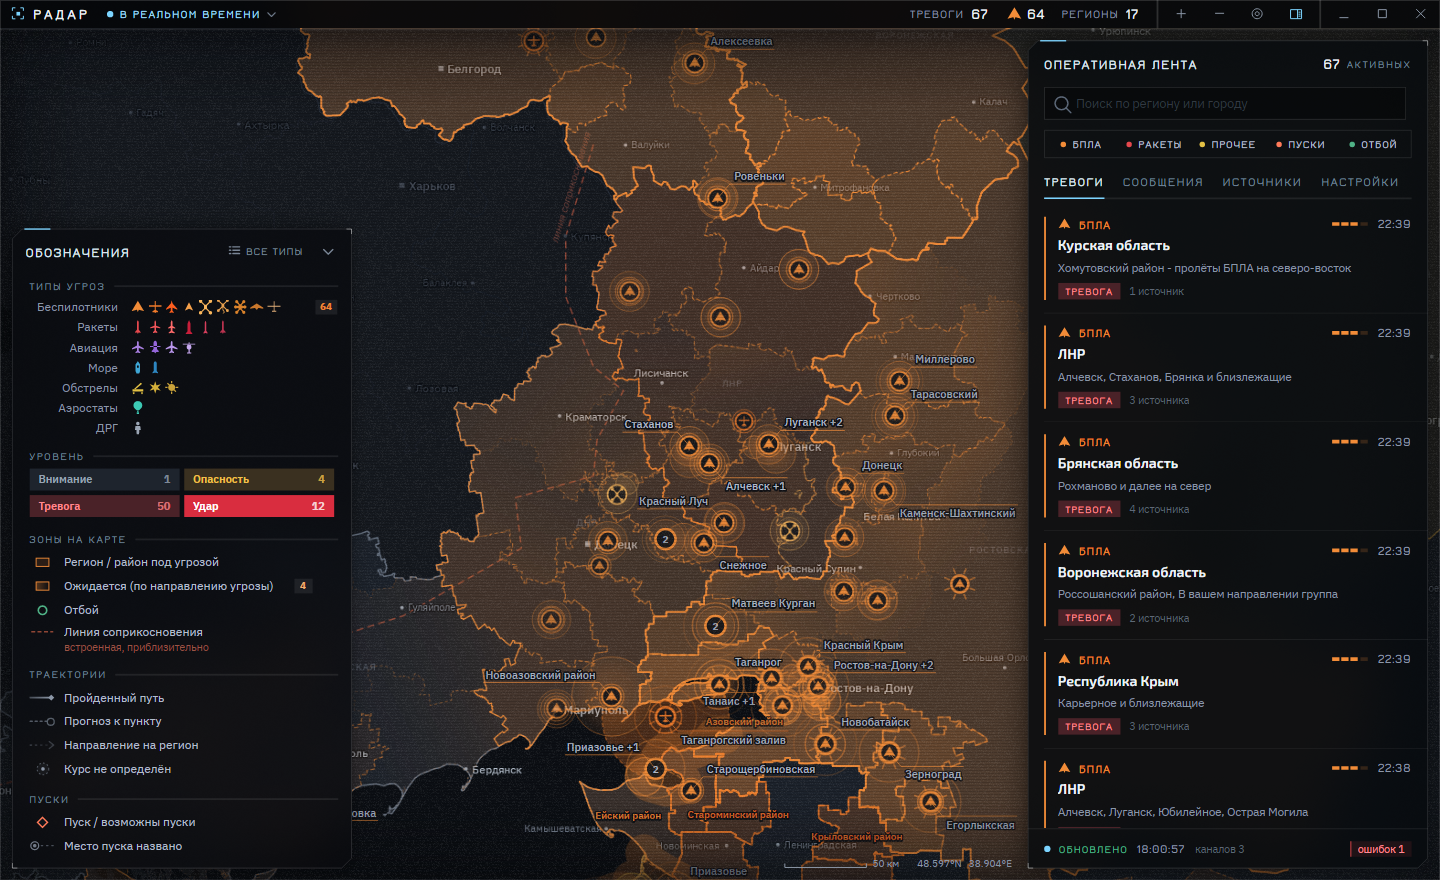
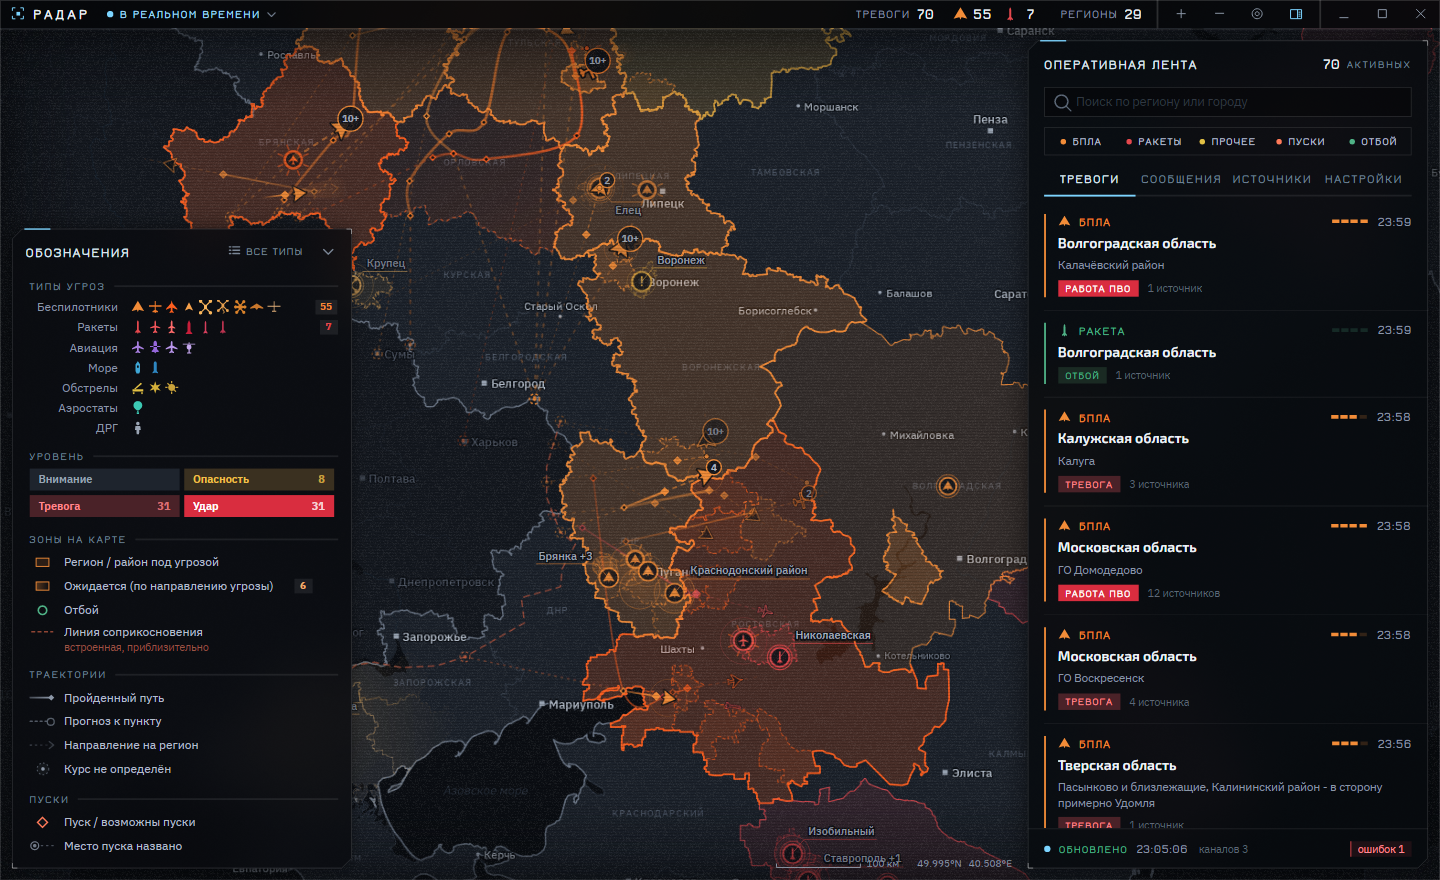
Новые скриншоты в README, ссылка на обратную связь
Снимки окна целиком (шапка, лента, карточка, статистика); --render-ui: RADAR_UI_HOVER — карточка по наведению, треки на карте при RADAR_UI_FEED. Обратная связь — t.me/escorplab.

diff --git a/Radar.Core/Views/MainView.axaml.cs b/Radar.Core/Views/MainView.axaml.cs
@@ -350,6 +350,9 @@ public partial class MainView : UserControl
                     .OrderBy(m => m.Time).ToList());
                 // лента и каналы заполнены — снимок «на связи», без плашки загрузки
                 vm.DebugSetOnline();
+                // лента в модели пересылает на карту события без треков архива — на снимке карта та же, что без ленты
+                w._vm!.MapEventsChanged -= w.OnMapEvents;
+                w.Map.SetEvents(ce, ct);
             }
             if (int.TryParse(Environment.GetEnvironmentVariable("RADAR_UI_TAB"), out var tab)) w.SideTabs.SelectedIndex = tab;
             if (Environment.GetEnvironmentVariable("RADAR_UI_REGIONS") is { Length: > 0 } rg)
@@ -416,6 +419,12 @@ public partial class MainView : UserControl
         // RADAR_UI_CENTER=lat,lon,zoom — вид карты
         if (Environment.GetEnvironmentVariable("RADAR_UI_CENTER") is { Length: > 0 } cz && cz.Split(',') is [var cla, var clo, var czz])
             w.Map.CenterOn(new GeoPoint(double.Parse(cla, System.Globalization.CultureInfo.InvariantCulture), double.Parse(clo, System.Globalization.CultureInfo.InvariantCulture)), double.Parse(czz, System.Globalization.CultureInfo.InvariantCulture));
+        // RADAR_UI_HOVER=<пункт> — наведение на отметку события: всплывающая карточка (снимок для README)
+        if (Environment.GetEnvironmentVariable("RADAR_UI_HOVER") is { Length: > 0 } hov)
+        {
+            using (var pre = new Avalonia.Media.Imaging.RenderTargetBitmap(new Avalonia.PixelSize(W, H))) pre.Render(host);
+            Console.WriteLine(w.Map.DebugHoverEvent(hov));
+        }
         // RADAR_UI_DRAG=<пункт>:<км>[:release] — перетаскивание края круга
         if (Environment.GetEnvironmentVariable("RADAR_UI_DRAG") is { Length: > 0 } dr && dr.Split(':') is [var dn, var dk, ..] dp)
         {

diff --git a/Radar.Core/Map/MapControl.cs b/Radar.Core/Map/MapControl.cs
@@ -2138,6 +2138,24 @@ public sealed class MapControl : Control
         _pickPlace = PlaceLabelAt(p);
         _pickHover = _pickPlace == null ? RegionAtScreen(p) : null;
     }
+    /// <summary>Отладка (--render-ui): наведение на отметку события с пунктом <paramref name="label"/> — карточка без анимации.</summary>
+    public string DebugHoverEvent(string label)
+    {
+        foreach (var e in Events)
+            foreach (var pt in e.Points)
+            {
+                if (!pt.Label.StartsWith(label, StringComparison.OrdinalIgnoreCase)) continue;
+                var at = WorldToScreen(Basemap.Project(pt.Pos));
+                if (HitEvent(at) is not { } h) continue;
+                _hover = at;
+                _hoverEvent = _tipEvent = h;
+                _tipPos = at;
+                _tipFade = 1;
+                _hl[h] = 1;
+                return $"карточка: {h.Title} у «{pt.Label}» {at.X:0},{at.Y:0}";
+            }
+        return $"карточка: отметка «{label}» не найдена";
+    }
     public double DebugBaseZoom => _baseZoom;
     public Task? DebugBaseJob => _baseJob;
     public Task? DebugAreasJob => _areasJob;

diff --git a/Radar.Core/Services/Distribution.cs b/Radar.Core/Services/Distribution.cs
@@ -11,5 +11,5 @@ public static class Distribution
     /// <summary>Архив сообщений — отдельный релиз с постоянным тегом «archive», обновляется ежедневно.</summary>
     public const string ArchiveBaseUrl = RepoUrl + "/releases/download/archive/";
     public const string DonateUrl = "https://yoomoney.ru/fundraise/1KNOTETVTB3.261005";
-    public const string FeedbackUrl = "https://t.me/people_soft?direct";
+    public const string FeedbackUrl = "https://t.me/escorplab?direct";
 }

diff --git a/README.md b/README.md
@@ -9,7 +9,7 @@
 
 ![Окно приложения: карта, легенда и оперативная лента](docs/screenshot-main.png)
 
-![Треки и тревоги над Донбассом и Ростовской областью](docs/screenshot-tracks.png)
+![Треки, скорости и прогнозы над Московским регионом](docs/screenshot-tracks.png)
 
 ## Установка
 
@@ -18,7 +18,7 @@
 Приложение само проверяет обновления при запуске (вкладка «Настройки» → «О программе») и загружает архив сообщений
 для истории и статистики — только новые и изменившиеся месяцы.
 
-Вопросы, предложения и замечания — [в Telegram](https://t.me/people_soft?direct).
+Вопросы, предложения и замечания — [в Telegram](https://t.me/escorplab?direct).
 
 ### Поддержать разработку
 
@@ -85,7 +85,7 @@
 дежурные фразы и подписи каналов, в отбоях — «отбой…», «режим внимания», время. «Фиксация/сбитие БПЛА» сводится к
 количеству («от 3 шт», «группа»). Источники — «@канал, @канал и ещё N».
 
-![Всплывающие карточки: короткая и с отбоем части, движением и историей](docs/screenshot-cards.png)
+![Всплывающая карточка тревоги: статус, пункты и история источников](docs/screenshot-cards.png)
 
 ## Треки
 
@@ -119,7 +119,8 @@
 Снимки для README: `Radar --render-demo файл.png` с `RADAR_DEMO_CORPUS=<архив.json>` и `RADAR_DEMO_VIEW=широта,долгота,масштаб`
 (обстановка на момент последнего сообщения), карточки — с `RADAR_DEMO_TIP=1`. Окно целиком — `Radar --render-ui файл.png`
 с тем же `RADAR_DEMO_CORPUS`, `RADAR_UI_FEED=1` (лента и каналы), `RADAR_UI_FREEZE=1` (время архива) и
-`RADAR_UI_CENTER=широта,долгота,масштаб`.
+`RADAR_UI_CENTER=широта,долгота,масштаб`; карточка — `RADAR_UI_HOVER=<пункт>` (наведение на его отметку), без боковой
+панели — `RADAR_UI_HIDE_SIDEBAR=1`.
 
 Качество треков и прогнозов проверяется прогоном всего архива (`tools/run_audit.sh`, таблица
 `artifacts/validation/engine-audit-months.tsv`): развороты, петли, треки и прогнозы к линии, отбои — все метрики
